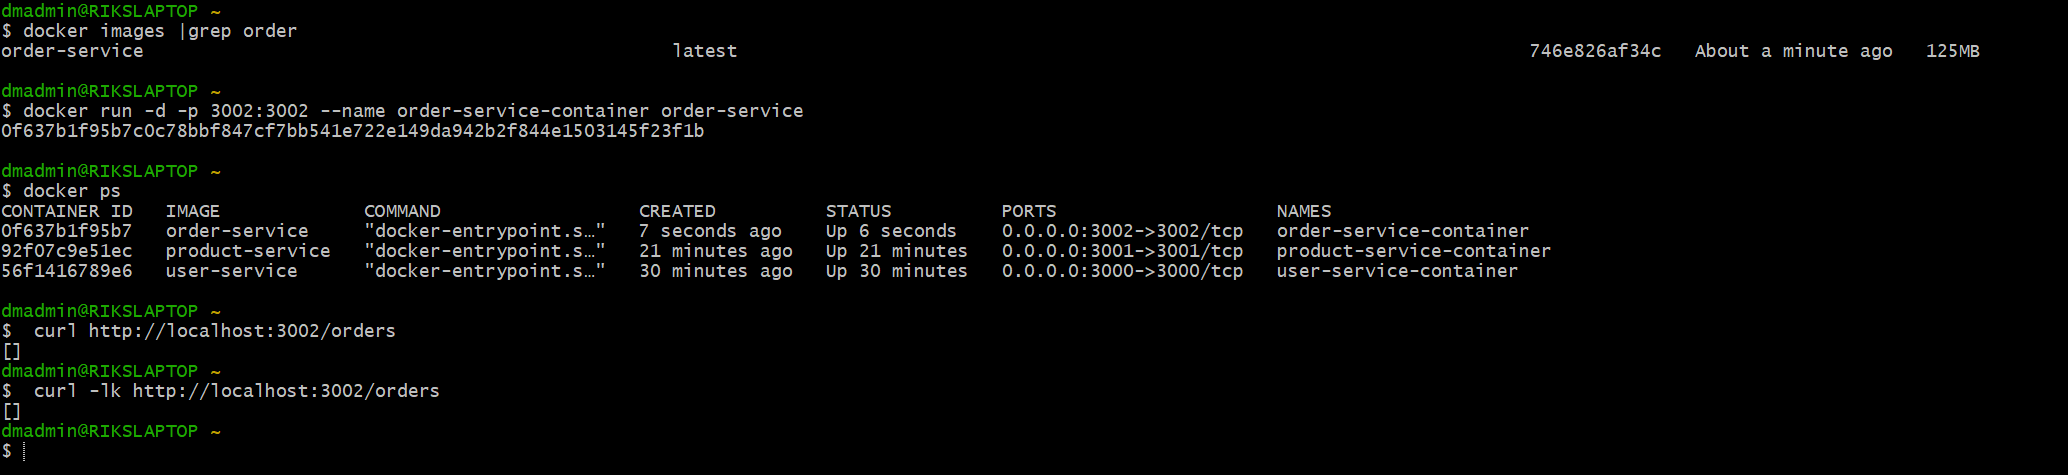
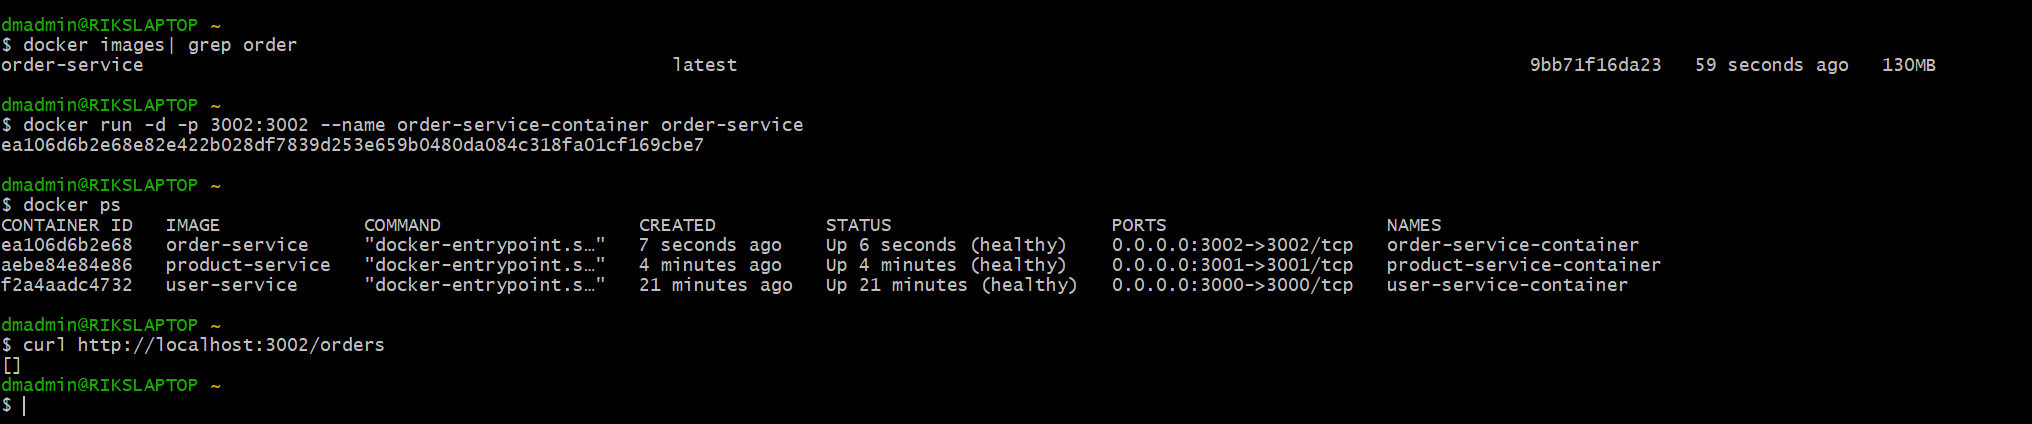
updated for healthcheck in DockerFile and docker-compose

diff --git a/ReadmeSol.md b/ReadmeSol.md
@@ -5,6 +5,36 @@ This ```md``` file contains detailed steps how to build micro service using Dock
 ## 1. Dockerfile Creation,Build and Test 
 Create a Dockerfile for each service and test it individually.
 
+### Build Container 
+```bash
+# Build User Service
+docker build -t user-service .
+
+# Build Product Service
+docker build -t product-service .
+
+# Build Order Service
+docker build -t order-service .
+
+# Build Gateway Service
+docker build -t gateway-service .
+```
+
+### Run the container 
+```bash
+# Run User Service
+docker run -d -p 3000:3000 --name user-service-container user-service
+
+# Run Product Service
+docker run -d -p 3001:3001 --name product-service-container product-service
+
+# Run Order Service
+docker run -d -p 3002:3002 --name order-service-container order-service
+
+# Run Gateway Service
+docker run -d -p 3003:3003 --name gateway-service-container gateway-service
+```
+
 ### 1.1. User-service 
 ![alt text](Microservices/images/image.png)
 ![alt text](Microservices/images/image-1.png)
@@ -56,6 +86,8 @@ docker build --no-cache -t user-service ./user-service
 docker-compose up -d user-service
 docker exec -it user-service sh
 ls /usr/src/app
+# Check health status specifically
+docker inspect --format='{{json .State.Health}}' user-service-container
 #Clean Up Docker Cache
 docker-compose down --rmi all --volumes --remove-orphans
 docker-compose build --no-cache
